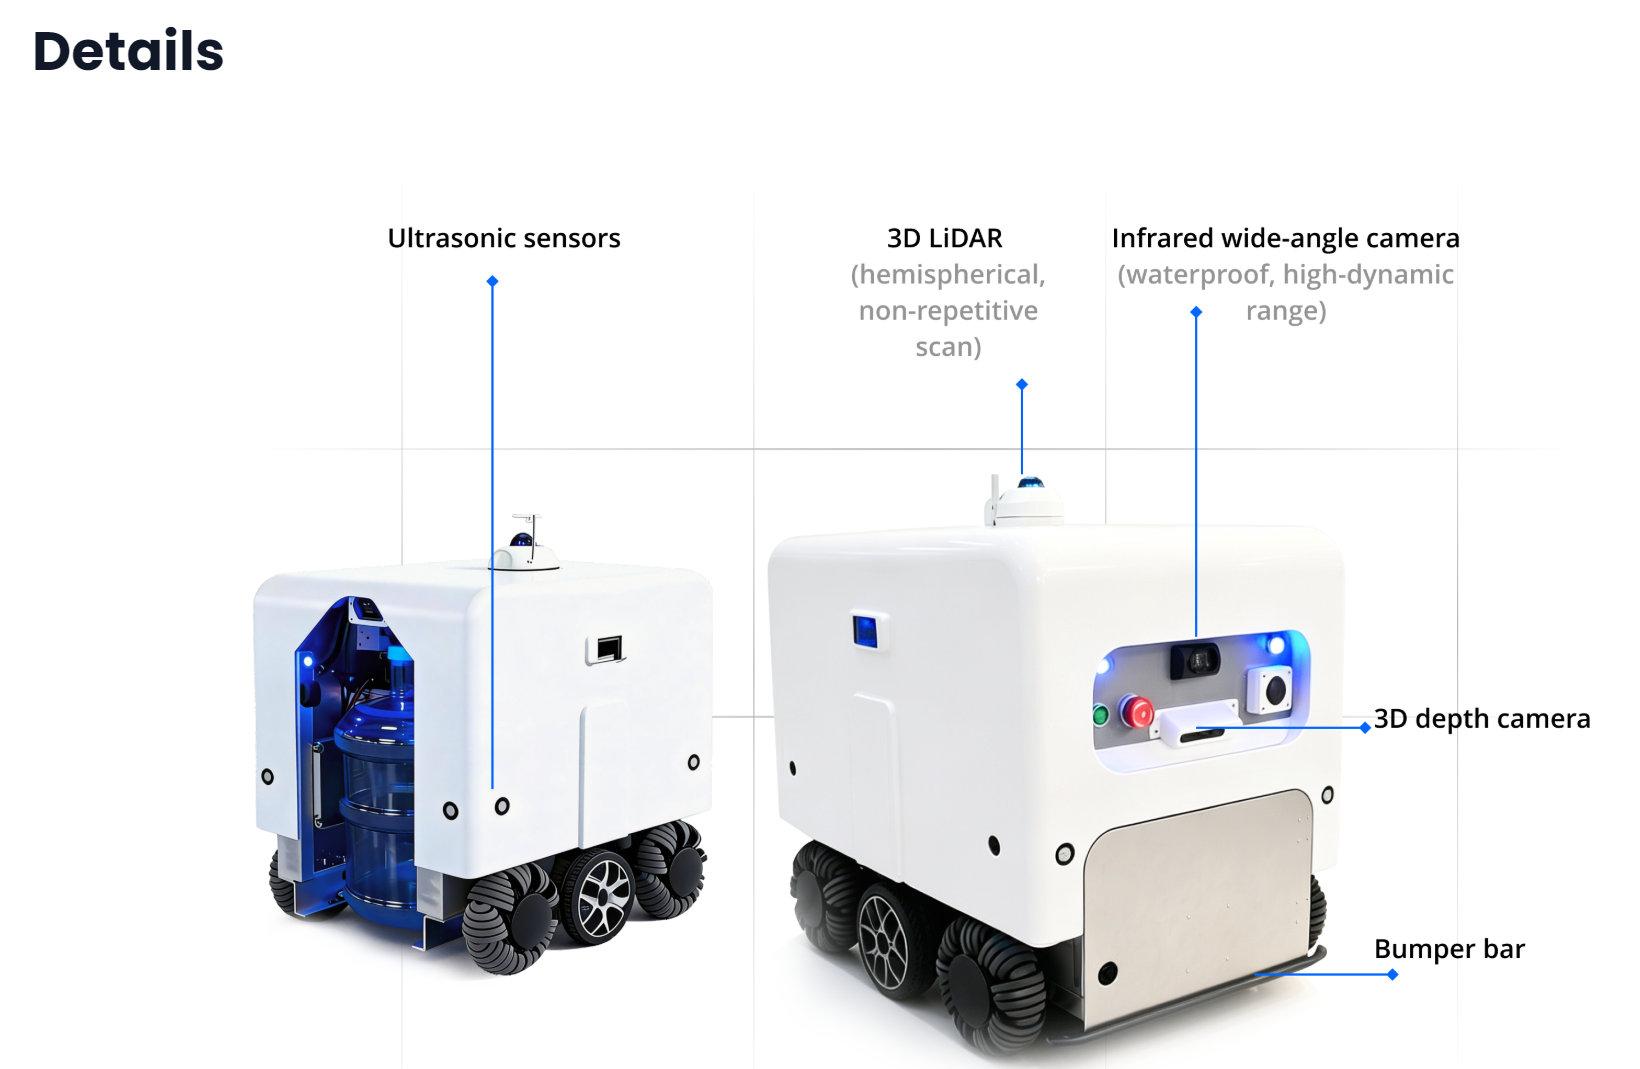
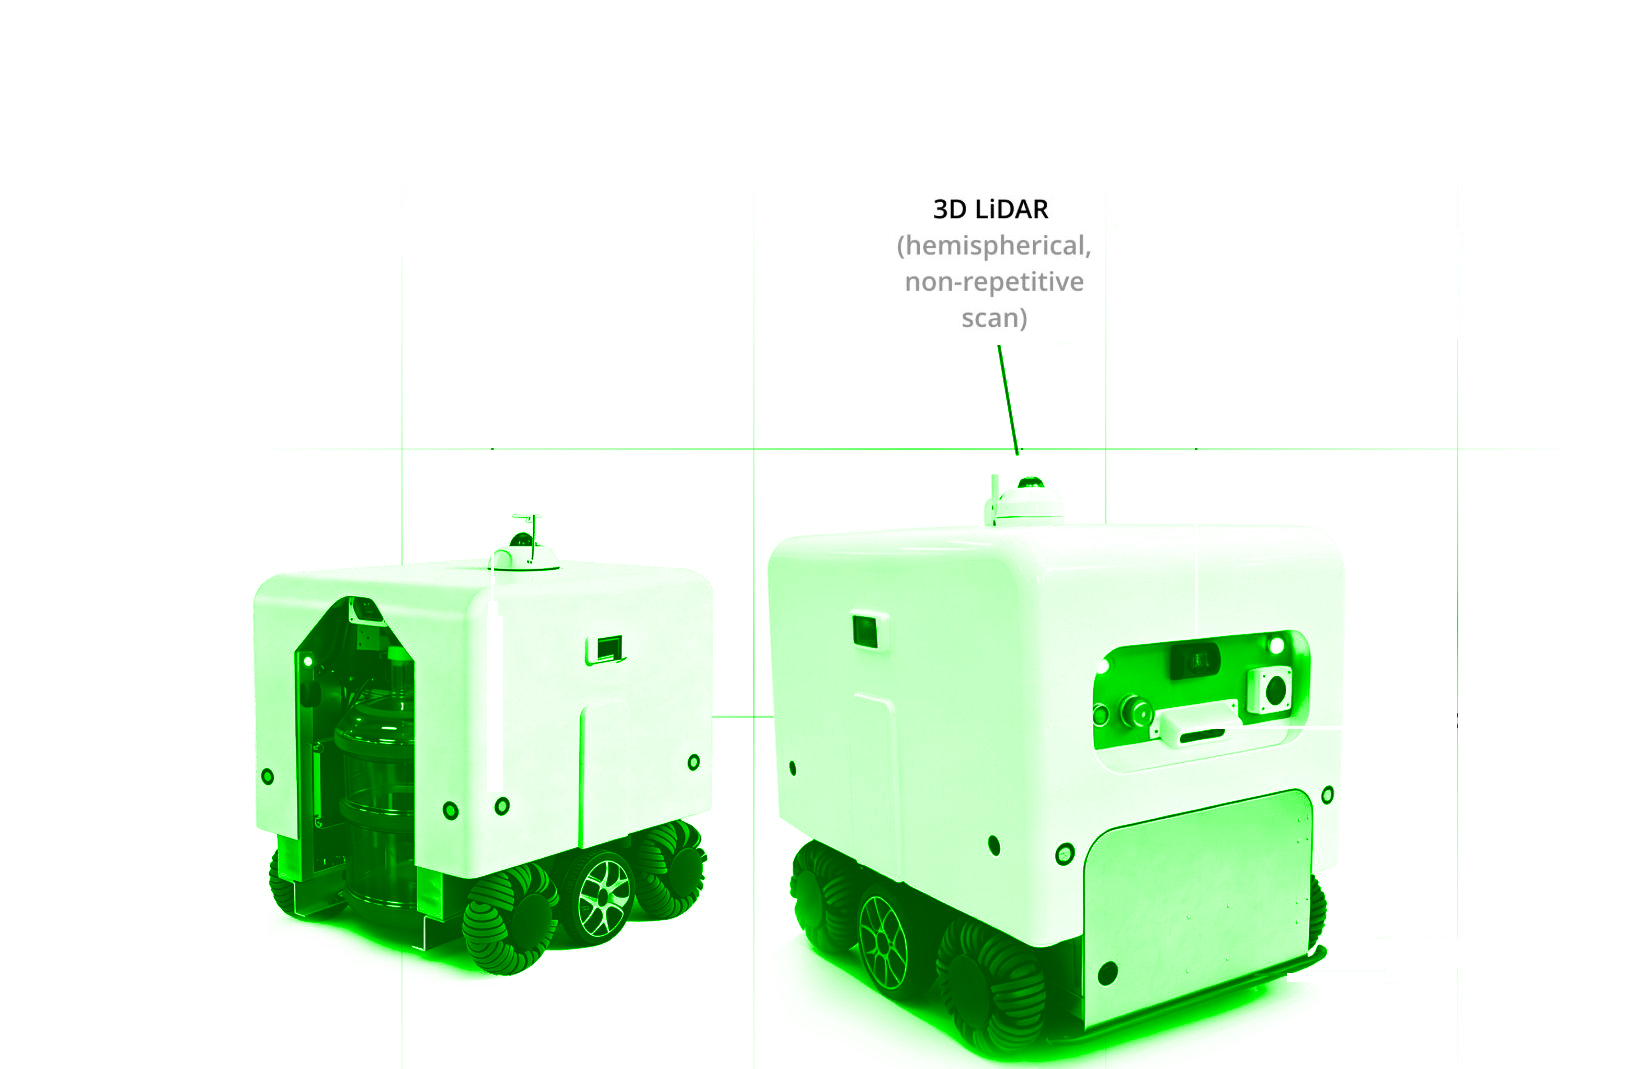
✨ feat: Add assets
- Add media assets, fit & adjust what needed.

diff --git a/index.html b/index.html
@@ -95,7 +95,7 @@
                 </div>
                 <p class="presence-intro">BOTens Robotics leverages the 1909 Group's global channel network and business resources to accelerate the global deployment of robot asset operations and build an intelligent delivery service ecosystem that is deployable, dispatchable and operable.</p>
                 <div class="placeholder map" role="img" aria-label="Global presence map: Japan · Singapore · Pattaya, Thailand · Silicon Valley, USA">
-                    <span class="ph-mark">＋</span><span>Global presence map: Japan · Singapore · Pattaya, Thailand · Silicon Valley, USA</span><small>IMAGE / VIDEO PLACEHOLDER</small>
+                    <img class="inline-img" role="img" aria-label="Global presence map: Japan · Singapore · Pattaya, Thailand · Silicon Valley, USA" src="assets/img/about/global_presence_card.png">
                 </div>
                 <div class="locations">
                     <div>
@@ -120,12 +120,14 @@
                     </div>
                 </div>
             </section>
+            <!--
             <section class="section " data-k="news-center">
                 <div class="section-title" data-title="News Center">
                     <h2>News Center</h2>
                 </div>
                 <div class="news-reserved" aria-label="Reserved space for future BOTENS news"></div>
             </section>
+            -->
         </div>
         <div class="page" id="page-about" hidden>
             <section class="hero" data-k="hero">
@@ -161,7 +163,7 @@
                     <h2>Global Presence</h2>
                 </div>
                 <div class="placeholder map" role="img" aria-label="Global presence map: Japan · Singapore · Pattaya, Thailand · Silicon Valley, USA">
-                    <span class="ph-mark">＋</span><span>Global presence map: Japan · Singapore · Pattaya, Thailand · Silicon Valley, USA</span><small>IMAGE / VIDEO PLACEHOLDER</small>
+                    <img class="inline-img" role="img" aria-label="Global presence map: Japan · Singapore · Pattaya, Thailand · Silicon Valley, USA" src="assets/img/about/global_presence_card.png">
                 </div>
                 <div class="locations">
                     <div>
@@ -186,6 +188,7 @@
                     </div>
                 </div>
             </section>
+            <!--
             <section class="section" data-k="core-team">
                 <div class="section-title" data-title="Core Team">
                     <span class="eyebrow">BOTENS ROBOTICS</span>
@@ -196,6 +199,7 @@
                 </div>
                 <p class="long-copy">BOTens Robotics brings together a core team from the robotics and technology ecosystems of the United States, China, Singapore and other markets, covering key capabilities including corporate governance and capital operations, robotics technology and AI infrastructure R&amp;D, product engineering implementation, global sales and localized services. Team members have worked at leading global companies and organizations including AWS, G42 in the UAE and KPMG. They combine autonomous-driving technology backgrounds, AI infrastructure experience, global supply-chain management capabilities and international commercial operations experience, forming an integrated capability set of “global governance + technology R&amp;D + engineering implementation + commercialization operations” to continuously support the company's global expansion in Japan, Singapore, Thailand, the United States and other markets.</p>
             </section>
+            -->
             <section class="section" data-k="news-center">
                 <div class="section-title" data-title="News Center">
                     <span class="eyebrow">BOTENS ROBOTICS</span>
@@ -299,34 +303,36 @@
                 </div>
                 <div class="grid">
                     <article class="card">
-                        <img class="grid-card-img" role="img" aria-label="Hemispherical Non-Repetitive 3D LiDAR detail photo" src="assets/img/robots/lidar.png">
+                        <div class="placeholder " role="img" aria-label="Hemispherical Non-Repetitive 3D LiDAR detail photo">
+                            <img class="grid-card-img" role="img" aria-label="Hemispherical Non-Repetitive 3D LiDAR detail photo" src="assets/img/robots/lidar.png">
+                        </div>
                         <h3>Hemispherical Non-Repetitive 3D LiDAR</h3>
                         <p>Creates a 360° 3D map of the surrounding environment - detecting obstacles, people and walls from all directions.</p>
                     </article>
                     <article class="card">
                         <div class="placeholder " role="img" aria-label="Infrared High-Dynamic Wide-Angle Waterproof Camera detail photo">
-                            <span class="ph-mark">＋</span><span>Infrared High-Dynamic Wide-Angle Waterproof Camera detail photo</span><small>IMAGE / VIDEO PLACEHOLDER</small>
+                            <img class="grid-card-img" role="img" aria-label="Infrared High-Dynamic Wide-Angle Waterproof Camera detail photo" src="assets/img/robots/infrared.png">
                         </div>
                         <h3>Infrared High-Dynamic Wide-Angle Waterproof Camera</h3>
                         <p>Maintains clear vision in low light, rain or strong light - helping the robot recognize objects and read signs.</p>
                     </article>
                     <article class="card">
                         <div class="placeholder " role="img" aria-label="3D Depth Camera detail photo">
-                            <span class="ph-mark">＋</span><span>3D Depth Camera detail photo</span><small>IMAGE / VIDEO PLACEHOLDER</small>
+                            <img class="grid-card-img" role="img" aria-label="3D Depth Camera detail photo" src="assets/img/robots/depth.png">
                         </div>
                         <h3>3D Depth Camera</h3>
                         <p>Measures the distance to nearby objects - critical for collision avoidance and clearance assessment.</p>
                     </article>
                     <article class="card">
                         <div class="placeholder " role="img" aria-label="Anti-Collision Strip / Bumper detail photo">
-                            <span class="ph-mark">＋</span><span>Anti-Collision Strip / Bumper detail photo</span><small>IMAGE / VIDEO PLACEHOLDER</small>
+                            <img class="grid-card-img" role="img" aria-label="Anti-Collision Strip / Bumper detail photo" src="assets/img/robots/bumper_bar.png">
                         </div>
                         <h3>Anti-Collision Strip / Bumper</h3>
                         <p>Protects the robot and cushions impact if it accidentally contacts an obstacle.</p>
                     </article>
                     <article class="card">
                         <div class="placeholder " role="img" aria-label="Ultrasonic Radar detail photo">
-                            <span class="ph-mark">＋</span><span>Ultrasonic Radar detail photo</span><small>IMAGE / VIDEO PLACEHOLDER</small>
+                            <img class="grid-card-img" role="img" aria-label="Ultrasonic Radar detail photo" src="assets/img/robots/ultrasonic.png">
                         </div>
                         <h3>Ultrasonic Radar</h3>
                         <p>Detects objects at very close range (for example, when someone walks in front) - providing additional safety in narrow spaces.</p>
@@ -340,10 +346,10 @@
                 </div>
                 <div class="grid two">
                     <div class="placeholder " role="img" aria-label="Product dimension drawing: front view">
-                        <span class="ph-mark">＋</span><span>Product dimension drawing: front view</span><small>IMAGE / VIDEO PLACEHOLDER</small>
+                        <img class="grid-card-img" role="img" aria-label="Product dimension drawing: front view" src="assets/img/robots/hero.png">
                     </div>
                     <div class="placeholder " role="img" aria-label="Product dimension drawing: left view">
-                        <span class="ph-mark">＋</span><span>Product dimension drawing: left view</span><small>IMAGE / VIDEO PLACEHOLDER</small>
+                        <img class="grid-card-img" role="img" aria-label="Product dimension drawing: left view" src="assets/img/robots/full.png">
                     </div>
                 </div>
                 <table>
